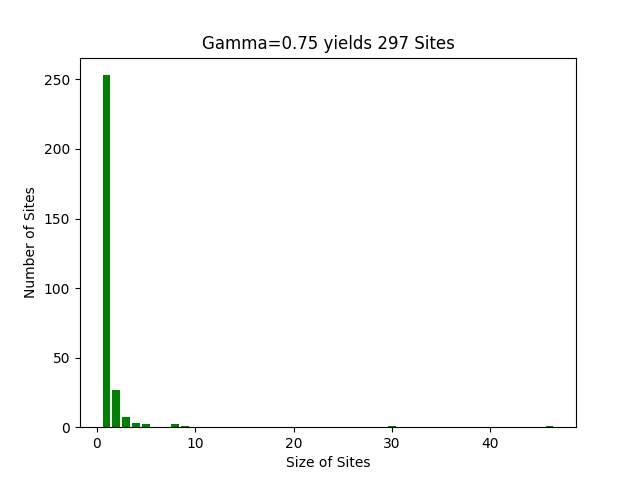
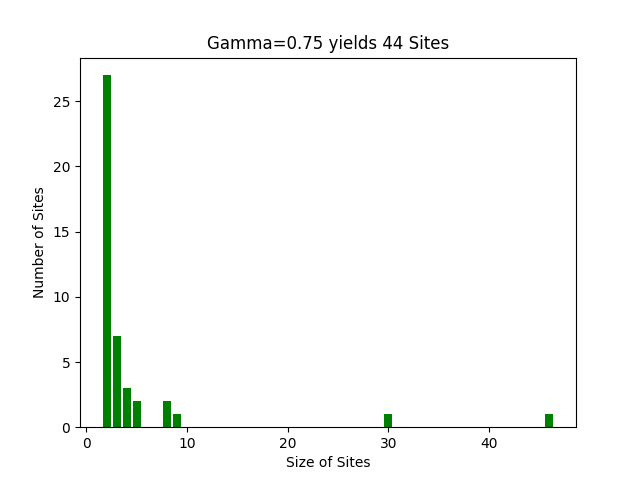
Histograms w/o singletons

diff --git a/histograms.py b/histograms.py
@@ -7,21 +7,15 @@ with open('gamma_steps.pickle', 'rb') as handle:
 def main():
     list_n_sites = []
     for x in range(1,6):
-
+        sites = [_ for _ in list(b.values())[x] if type(_)==list]
         gamma = round(list(b.items())[x][0], 2)
-        n_sites = len(list(b.values())[x])
+        n_sites = len(sites)
         list_n_sites.append(n_sites)
 
-        hist_dict = {1:0}
+        hist_dict = {}
 
-        for site in list(b.values())[x]:
-            if type(site)!=list:
-                hist_dict[1] += 1
-            else:
-                try:
-                    hist_dict[len(site)] += 1
-                except KeyError:
-                    hist_dict[len(site)] = 1
+        for site in sites:
+            hist_dict[len(site)] = hist_dict.get(len(site), 0) + 1
 
         print(gamma, hist_dict)
 
@@ -31,6 +25,7 @@ def main():
         plt.ylabel('Number of Sites')
         plt.savefig(f'Plots/AlgGamma{gamma}.png')
         plt.clf()
+
     return list_n_sites
 
 if __name__=='__main__':

diff --git a/clustering.py b/clustering.py
@@ -60,17 +60,11 @@ if __name__=='__main__':
     prcsd_data = preprocess(data_list)
     inds, cols = filter_stable_sites(data=prcsd_data, epsilon=epsilon)
     new_cols = numericalize(cols)
-    
+
     print('Running PCA')
     transformed_data = PCA(n_components=2).fit_transform(new_cols)
-    print('Running KMC')
-    labels = KMeans().fit_predict(transformed_data)
 
-    fields = ['Column Index', 'KMC Cluster']
-    rows = []
-    for i in range(len(labels)):
-        rows.append([inds[i], labels[i]])
-    with open(path, 'w') as f:
-        writer = csv.writer(f)
-        writer.writerow(fields)
-        writer.writerows(rows)
+    for n_clus in lns:
+        print(f'Running KMC with {n_clus} Clusters')
+        labels = KMeans(n_clusters=n_clus).fit_predict(transformed_data)
+        print(len(labels))
